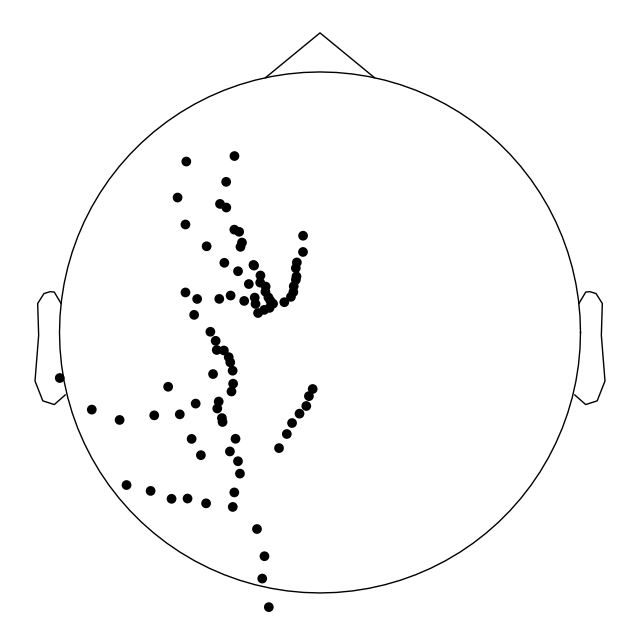
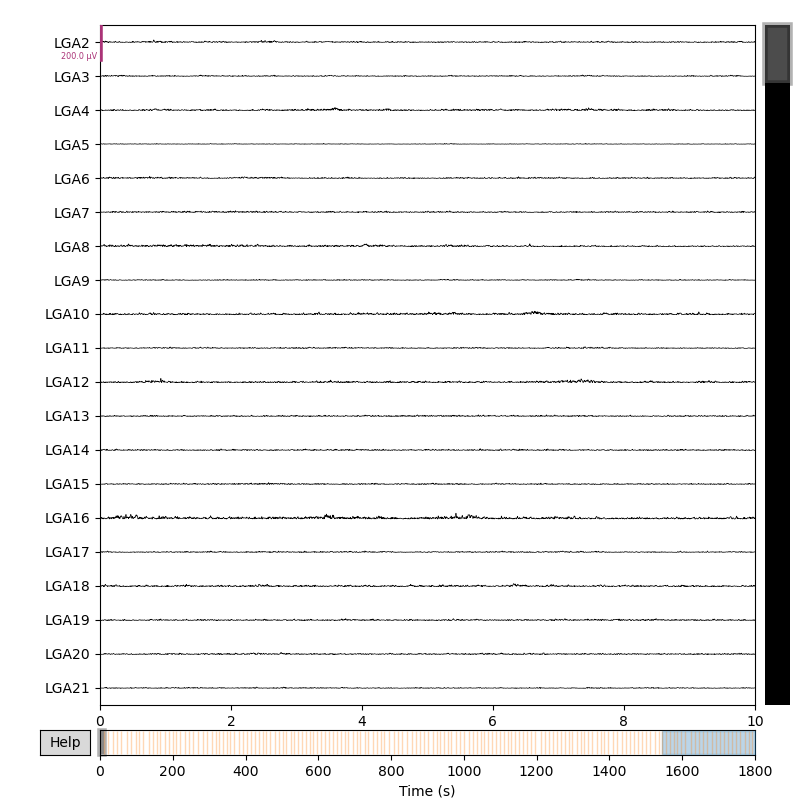
analize dataset

diff --git a/Code/get_datainfo.py b/Code/get_datainfo.py
@@ -1,0 +1,30 @@
+import mne
+import numpy as np
+from mne_bids import BIDSPath
+from nilearn.plotting import plot_markers
+import matplotlib as plt
+
+if __name__=="__main__":
+    datalst = []
+
+    for i in range(9):
+        file_path = BIDSPath(root="/home/keitaro-sunagawa/Master-Research/ds005574/derivatives/ecogprep",
+                            subject=f"0{i + 1}",
+                            task="podcast",
+                            datatype="ieeg",
+                            description="highgamma",
+                            suffix="ieeg",
+                            extension="fif")
+        raw = mne.io.read_raw_fif(file_path, verbose=False)
+        print(raw.info)
+
+        ch2loc = {ch['ch_name']: ch['loc'][:3] for ch in raw.info['chs']}
+        coords = np.vstack([ch2loc[ch] for ch in raw.info['ch_names']])
+        coords *= 1000  # nilearn likes to plot in meters, not mm
+        print("Coordinate matrix shape: ", coords.shape)
+
+        values = np.ones(len(coords))
+        fig = plot_markers(values, coords,
+                    node_size=30, display_mode='lzr', alpha=1,
+                    node_cmap='Grays', colorbar=False, node_vmin=0, node_vmax=1,
+                    output_file=f'plt_brain_sub0{i + 1}.png')

diff --git a/Code/ECoG_tutorial_gettingstarted.py b/Code/ECoG_tutorial_gettingstarted.py
@@ -5,7 +5,7 @@ from nilearn.plotting import plot_markers
 import matplotlib as plt
 
 file_path = BIDSPath(root="/home/keitaro-sunagawa/Master-Research/ds005574/derivatives/ecogprep",
-                     subject="02",
+                     subject="03",
                      task="podcast",
                      datatype="ieeg",
                      description="highgamma",
@@ -14,8 +14,9 @@ file_path = BIDSPath(root="/home/keitaro-sunagawa/Master-Research/ds005574/deriv
 # print(f"File path within the dataset: {file_path}")
 
 raw = mne.io.read_raw_fif(file_path, verbose=False)
-fig = raw.plot_sensors()
-fig.savefig('./tutorial.png')
+metadata = raw.info
+print(metadata)
+# fig.savefig('./tutorial.png')
 
 ch2loc = {ch['ch_name']: ch['loc'][:3] for ch in raw.info['chs']}
 coords = np.vstack([ch2loc[ch] for ch in raw.info['ch_names']])
